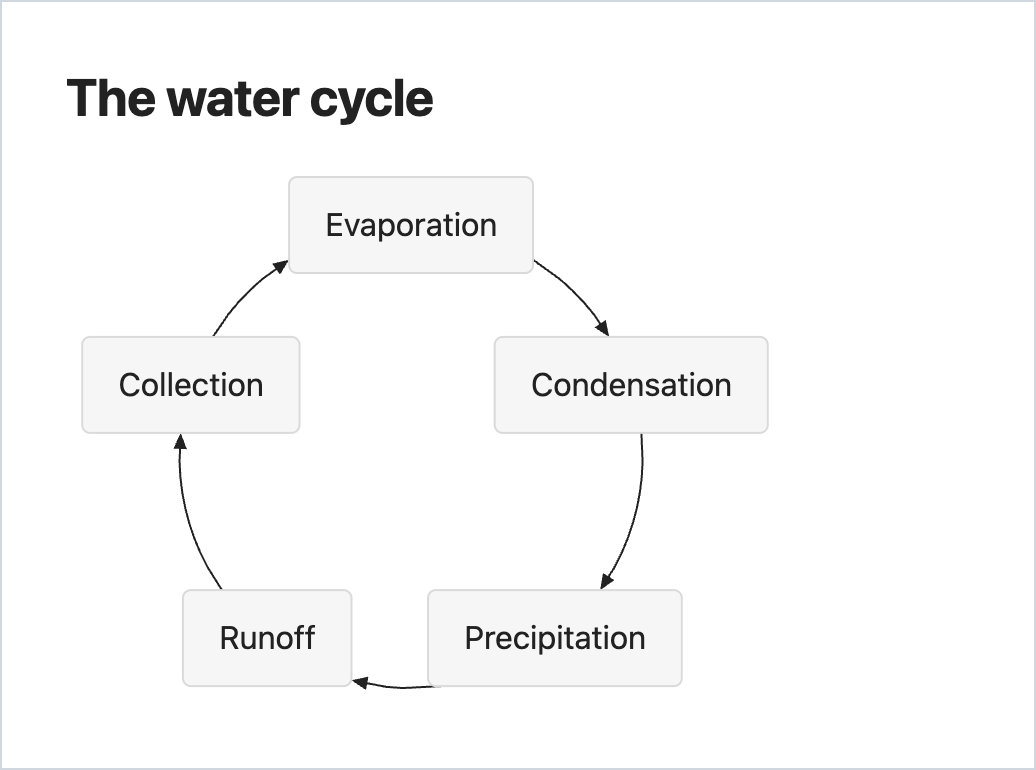
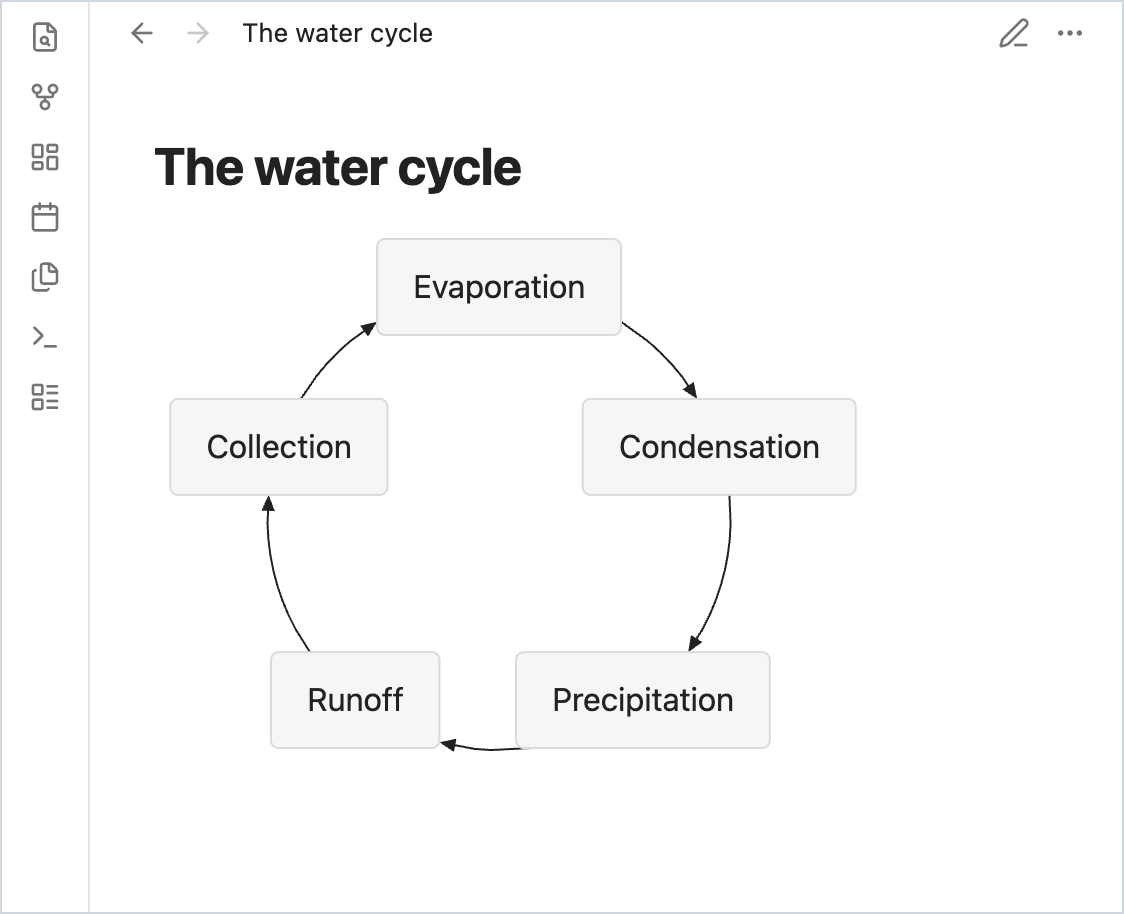
docs: the screenshot shows Obsidian around the note — one picture scale, US spelling
The lead screenshot now keeps the tab bar, ribbon and view header, and
the fixture note is named The water cycle so its title reads naturally.
Every picture displays at 0.65 of its natural size, so text matches
across pictures and no table row is much over 600 px. Which package to
use is its own section, the opening defines layout plainly, and the
README uses US spelling throughout.

(generated using Claude Opus 5.5)

diff --git a/README.md b/README.md
@@ -3,16 +3,16 @@
 An Obsidian plugin that draws mermaid flowcharts as circles.
 
 Obsidian is a note-taking app. It draws diagrams written in mermaid,
-a language for describing diagrams as text. Its flowcharts are laid
-out in rows, so a cycle comes out as a line with one arrow looping
-back. With this plugin, a flowchart that asks for it is drawn on a
+a language for describing diagrams as text. mermaid lays out
+flowcharts in rows, so a cycle comes out as a line with one arrow
+looping back. With this plugin, a flowchart that asks for it is drawn on a
 circle. Each arrow follows the circle to the next node.
 
-This layout, meaning where each box goes and the path each arrow
-takes, also comes as packages for web pages. They are listed under
+A layout is where each box goes and the path each arrow takes. This
+one also comes as packages for web pages, listed under
 [Which package to use](#which-package-to-use).
 
-<img src="https://raw.githubusercontent.com/AndrewBroz/obsidian-mermaid-circular/main/docs/media/obsidian-note.png" width="518" alt="An Obsidian note titled The water cycle, with five boxes on a circle, Evaporation at the top, joined clockwise by curved arrows.">
+<img src="https://raw.githubusercontent.com/AndrewBroz/obsidian-mermaid-circular/main/docs/media/obsidian-note.png" width="365" alt="An Obsidian window showing a note titled The water cycle, with five boxes on a circle, Evaporation at the top, joined clockwise by curved arrows.">
 
 ## Usage
 
@@ -57,18 +57,18 @@ Requires Obsidian 1.15 or later.
 
 ## Straight edges
 
-By default, an arrow between two neighbours on the circle is curved
+By default, an arrow between two neighbors on the circle is curved
 along it. Set `flowchart.curve` to `linear` to draw straight lines
 instead, so the ring becomes a polygon.
 
-An arrow between two nodes that are not neighbours is called a chord.
+An arrow between two nodes that are not neighbors is called a chord.
 A chord is always a straight line across the circle. When two straight
 arrows join the same two nodes, they are drawn as parallel lines, each
 with its label on its own side.
 
 | Curved arrows (the default) | `curve: linear` |
 | --- | --- |
-| <img src="https://raw.githubusercontent.com/AndrewBroz/obsidian-mermaid-circular/main/docs/media/daily-arcs.svg" width="360" alt="Five labelled boxes on a circle, Wake at the top, joined by curved arrows, with a dashed straight chord from Work to Home."> | <img src="https://raw.githubusercontent.com/AndrewBroz/obsidian-mermaid-circular/main/docs/media/daily-straight.svg" width="360" alt="The same five boxes joined by straight arrows into a pentagon, with the dashed chord from Work to Home."> |
+| <img src="https://raw.githubusercontent.com/AndrewBroz/obsidian-mermaid-circular/main/docs/media/daily-arcs.svg" width="259" alt="Five labeled boxes on a circle, Wake at the top, joined by curved arrows, with a dashed straight chord from Work to Home."> | <img src="https://raw.githubusercontent.com/AndrewBroz/obsidian-mermaid-circular/main/docs/media/daily-straight.svg" width="259" alt="The same five boxes joined by straight arrows into a pentagon, with the dashed chord from Work to Home."> |
 
 The diagram on the right:
 
@@ -101,7 +101,7 @@ cross the top of a box, its title moves to the bottom.
 
 | A small group: a box | A group around half the ring or more: a band |
 | --- | --- |
-| <img src="https://raw.githubusercontent.com/AndrewBroz/obsidian-mermaid-circular/main/docs/media/lifecycle-box.svg" width="360" alt="Eight boxes on a circle. Build and Test sit inside a grey box titled Make, at the bottom right."> | <img src="https://raw.githubusercontent.com/AndrewBroz/obsidian-mermaid-circular/main/docs/media/lifecycle-band.svg" width="360" alt="Eight boxes on a circle. A grey curved band titled Funded wraps six of them, from Spec round to Monitor."> |
+| <img src="https://raw.githubusercontent.com/AndrewBroz/obsidian-mermaid-circular/main/docs/media/lifecycle-box.svg" width="291" alt="Eight boxes on a circle. Build and Test sit inside a gray box titled Make, at the bottom right."> | <img src="https://raw.githubusercontent.com/AndrewBroz/obsidian-mermaid-circular/main/docs/media/lifecycle-band.svg" width="340" alt="Eight boxes on a circle. A gray curved band titled Funded wraps six of them, from Spec around to Monitor."> |
 
 ## More shapes
 
@@ -113,12 +113,12 @@ figure-eight.
 
 <table>
 <tr>
-<td align="center"><img src="https://raw.githubusercontent.com/AndrewBroz/obsidian-mermaid-circular/main/docs/media/hub.svg" width="380" alt="Registry in the middle, with arrows out to Alpha, Bravo, Charlie, Delta and Echo, and Bravo's log hanging off Bravo."><br>A hub goes in the middle</td>
-<td align="center"><img src="https://raw.githubusercontent.com/AndrewBroz/obsidian-mermaid-circular/main/docs/media/wheel.svg" width="355" alt="Six boxes on a circle from Plan to Learn, each with a straight arrow in to Vision at the centre."><br>A wheel: a ring around a hub</td>
+<td align="center"><img src="https://raw.githubusercontent.com/AndrewBroz/obsidian-mermaid-circular/main/docs/media/hub.svg" width="345" alt="Registry in the middle, with arrows out to Alpha, Bravo, Charlie, Delta and Echo, and Bravo's log hanging off Bravo."><br>A hub goes in the middle</td>
+<td align="center"><img src="https://raw.githubusercontent.com/AndrewBroz/obsidian-mermaid-circular/main/docs/media/wheel.svg" width="231" alt="Six boxes on a circle from Plan to Learn, each with a straight arrow in to Vision at the center."><br>A wheel: a ring around a hub</td>
 </tr>
 <tr>
-<td align="center"><img src="https://raw.githubusercontent.com/AndrewBroz/obsidian-mermaid-circular/main/docs/media/satellite.svg" width="380" alt="Plan, Build, Ship and Learn on a circle, with Debug, Fix and Test on a second, smaller circle to the right of Build."><br>A cycle off the ring gets its own circle</td>
-<td align="center"><img src="https://raw.githubusercontent.com/AndrewBroz/obsidian-mermaid-circular/main/docs/media/figure-eight.svg" width="380" alt="Two circles that meet at Sleep: Wake, Work and Dine on the right, Dream and Toss on the left."><br>Two cycles sharing a node: a figure-eight</td>
+<td align="center"><img src="https://raw.githubusercontent.com/AndrewBroz/obsidian-mermaid-circular/main/docs/media/satellite.svg" width="327" alt="Plan, Build, Ship and Learn on a circle, with Debug, Fix and Test on a second, smaller circle to the right of Build."><br>A cycle off the ring gets its own circle</td>
+<td align="center"><img src="https://raw.githubusercontent.com/AndrewBroz/obsidian-mermaid-circular/main/docs/media/figure-eight.svg" width="250" alt="Two circles that meet at Sleep: Wake, Work and Dine on the right, Dream and Toss on the left."><br>Two cycles sharing a node: a figure-eight</td>
 </tr>
 </table>
 
@@ -129,7 +129,7 @@ diagrams, so they match what you see in your notes.
 
 ## What carries over
 
-Circular diagrams follow your theme, accent colour, font, and light or
+Circular diagrams follow your theme, accent color, font, and light or
 dark mode, like every other diagram. Like any diagram in Obsidian, they
 ignore mermaid's `theme:` and `look:` settings. Layout options such as
 `hub` can't be set in Obsidian yet.
@@ -158,7 +158,7 @@ move it. If that happens, the plugin says so in a notice and leaves
 your diagrams to Pele. Disabling the plugin also hands circular
 diagrams back to Pele.
 
-### Which package to use
+## Which package to use
 
 The same circular layout comes in four packages. Pick the one that
 matches how you draw diagrams.
@@ -167,7 +167,7 @@ matches how you draw diagrams.
 | --- | --- |
 | mermaid, in a web page or app | [mermaid-layout-circular](https://github.com/AndrewBroz/mermaid-layout-circular) |
 | Pele, in a web page or app | [pele-layout-circular](https://github.com/AndrewBroz/pele-layout-circular) |
-| Obsidian, in your notes | this package |
+| Obsidian, in your notes | this plugin |
 | your own code | [layout-circular](https://github.com/AndrewBroz/layout-circular), the shared placement math |
 
 The first three use layout-circular to decide where each node goes.

diff --git a/docs/DECISIONS.md b/docs/DECISIONS.md
@@ -116,21 +116,24 @@ yet" in the pele-layout-circular README, which the plugin README links.
 The README now opens with what the plugin does and an Obsidian
 screenshot, then usage and install. Examples, what carries over, limits
 and how the plugin hooks into Obsidian follow. The family table ("Which
-package to use") sits at the end of "How it works", since a reader here
+package to use") comes after "How it works", since a reader here
 already uses Obsidian. The wording follows the family's docs plan and
 `layout-circular/docs/DOCS-STYLE.md`.
 
 Pictures live in `docs/media/` and the README loads them by absolute
 `raw.githubusercontent.com/.../main/` URL. Obsidian's community plugin
 browser shows this README too, and absolute URLs work there whatever it
-does with relative paths. `obsidian-note.png` is a 2x screenshot of
-`sandbox-fixtures/Screenshot.md` in reading view: sandboxed Obsidian
-1.15.1, default theme, light mode, sidebars and inline title off,
-window 560x540, cropped to the note and given a 1 px grey border. The
-eight `.svg` examples are Pele renders of the docs catalog with the
+does with relative paths. `obsidian-note.png` is a 2x screenshot
+of `sandbox-fixtures/The water cycle.md` in reading view: sandboxed
+Obsidian 1.15.1, default theme, light mode, sidebars collapsed, window
+560x540. The crop keeps the tab bar, ribbon and view header, so it reads
+as Obsidian, and stops above the status bar; it has a 1 px gray border.
+The eight `.svg` examples are Pele renders of the docs catalog with the
 plugin's own pele 1.13.0 and pele-layout-circular 0.2.0, on a white
-card so they read on GitHub's dark theme. Pele is what draws circular
-diagrams in Obsidian, so these match what a user sees, minus their
+card so they read on GitHub's dark theme. Every picture displays at
+0.65 of its natural size, so text is the same size in all of them and
+the widest table row (the groups pair) stays near 630 px. Pele is what draws
+circular diagrams in Obsidian, so these match what a user sees, minus their
 theme. Redraw them with pele-layout-circular's
 `scripts/render-docs.ts --out ../obsidian-mermaid-circular/docs/media`.
 

diff --git a/sandbox-fixtures/The water cycle.md b/sandbox-fixtures/The water cycle.md
@@ -1,5 +1,3 @@
-# The water cycle
-
 ```mermaid
 ---
 config:
